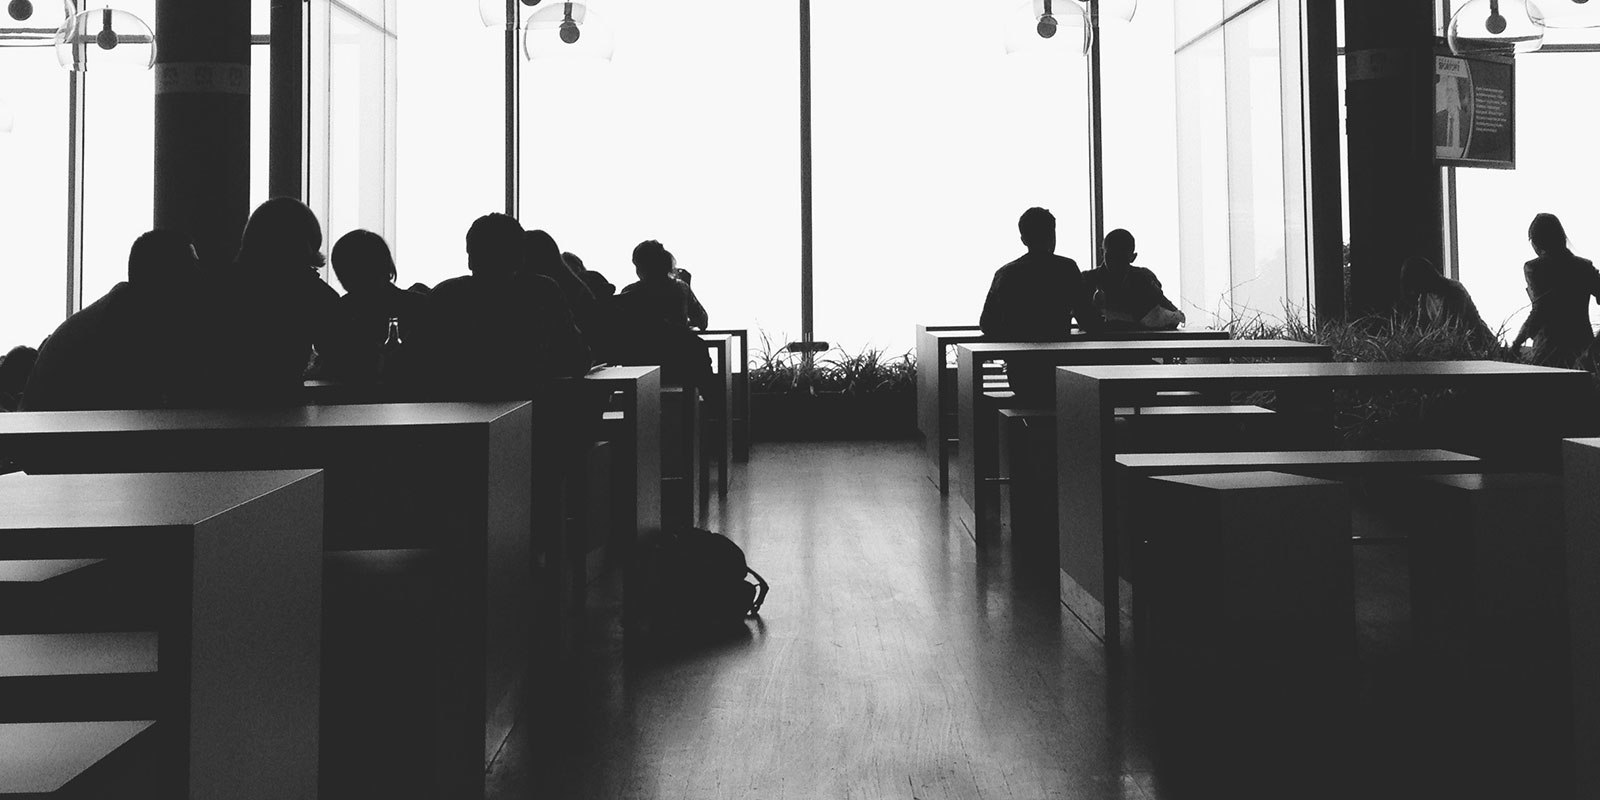
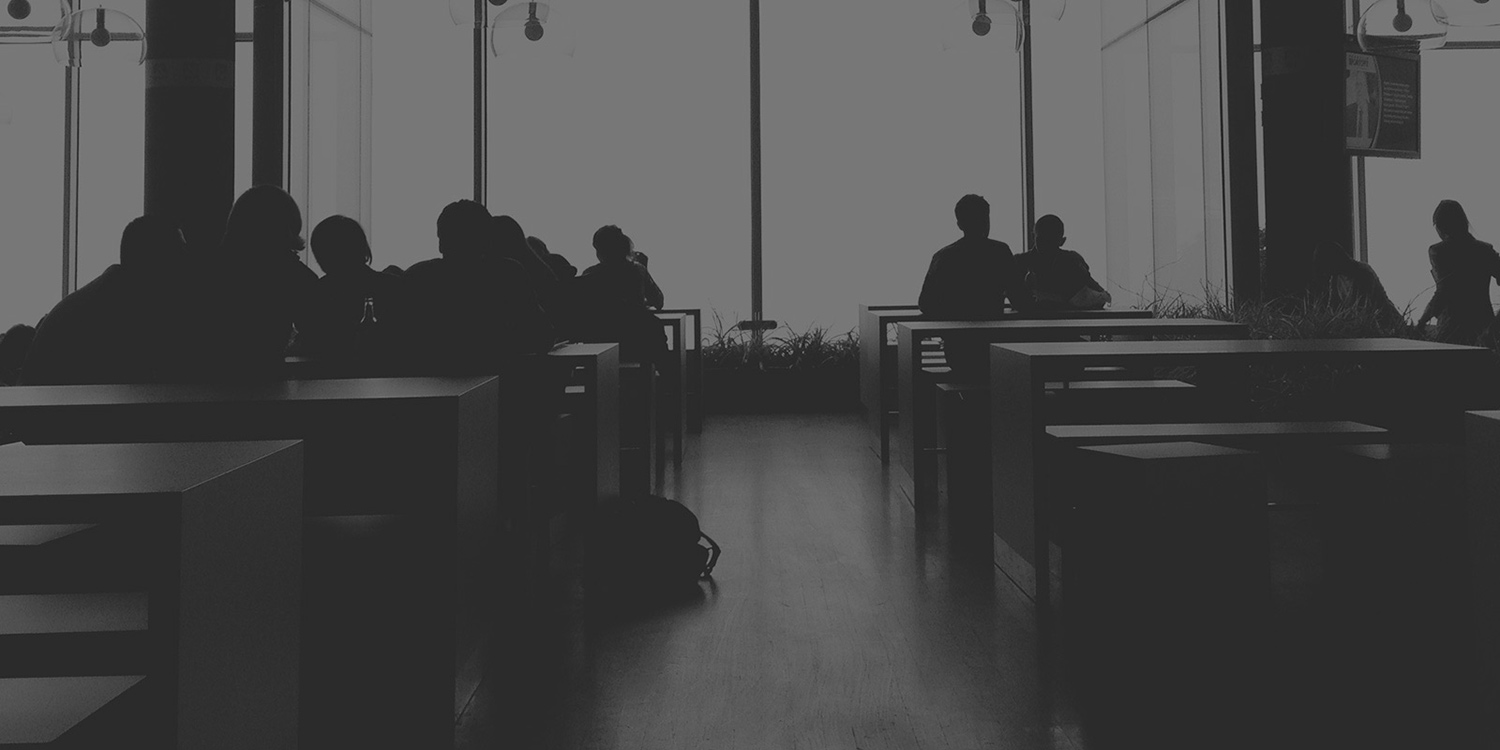
Finished styling the login-page, fix the logout functionality, added food menu page

diff --git a/public/stylesheets/main.css b/public/stylesheets/main.css
@@ -5,11 +5,21 @@
 
 ======================================================================*/
 
+#welcome-to {
+	margin: 50px 0 0;
+	font-size: 20pt;
+	font-family: 'Roboto', sans-serif;
+	text-align: center;
+	color: white;
+	-webkit-animation-name: welcome;
+	-webkit-animation-duration: 3s;
+	-webkit-animation-fill-mode: forwards;
+}
+
 #non-auth-body {
 	margin: 0;
 	padding: 0;
-	background: linear-gradient( rgba(44, 44, 44, 0.75), rgba(44, 44, 44, 0.5)),
-    url('/img/non-auth-bkg.jpg');
+	background: url('/img/non-auth-bkg.jpg');
 	background-size: cover;
 	background-attachment: fixed;
 }
@@ -22,12 +32,12 @@
 	font-weight: 800;
 	text-align: center;
 	color: white;
-	margin: 150px auto 0;
+	margin: 20px auto 0;
 	border-top: solid 1px rgba(255,255,255,0);
 	border-bottom: solid 1px rgba(255,255,255,0);
 	-webkit-animation-name: borderAdd;
 	-webkit-animation-duration: 2s;
-	-webkit-animation-delay: 3s;
+	-webkit-animation-delay: 3.5s;
 	-webkit-animation-fill-mode: forwards;
 }
 
@@ -38,9 +48,10 @@
 #tagline{
 	font-size: 22pt;
 	font-family: 'Roboto', serif;
-	font-weight: 400;
+	font-weight: 300;
 	text-align: center;
 	color: white;
+	margin-bottom: 55px;
 }
 
 
@@ -63,12 +74,16 @@
 	}
 	100%{
 		-webkit-transform: translate3d(0,0,0);
+		opacity: 1;
 	}
 }
 
 #logo-first-s{
+	opacity: 0;
 	-webkit-animation-name: firstS;
+	-webkit-animation-delay: .5s;
 	-webkit-animation-duration: 3s;
+	-webkit-animation-fill-mode: forwards;
 }
 
 
@@ -85,12 +100,16 @@
 	}
 	100%{
 		-webkit-transform: translate3d(0,0,0);
+		opacity: 1;
 	}
 }
 
 #logo-last-s{
+	opacity: 0;
 	-webkit-animation-name: lastS;
+	-webkit-animation-delay: .5s;
 	-webkit-animation-duration: 3s;
+	-webkit-animation-fill-mode: forwards;
 }
 
 
@@ -123,7 +142,20 @@
 	-webkit-animation-fill-mode: forwards;
 }
 
-
+@-webkit-keyframes welcome{
+	0%{
+		opacity: 0;
+	}
+	32%{
+		opacity: 1;
+	}
+	65%{
+		opacity: 1
+	}
+	100%{
+		opacity: 0;
+	}
+}
 
 
 
@@ -132,6 +164,10 @@
 form {
 	width: 40%;
 	margin: 0 auto;
+}
+
+#sign-up-form {
+	margin-bottom: 50px;
 }
 
 input {
@@ -167,7 +203,7 @@ input[type="submit"]:hover {
 .fadeIn{
 	-webkit-animation-name: fadeIn;
 	-webkit-animation-duration: 2s;
-	-webkit-animation-delay: 3s;
+	-webkit-animation-delay: 5s;
 	-webkit-animation-fill-mode: forwards;
 }
 
@@ -199,10 +235,78 @@ input[type="submit"]:hover {
 				INTERFACE - MAIN
 
 ======================================================================*/
-
 #auth-body {
 	background-color: #2c2c2c;
 }
+
+
+/*===========NAV==============*/
+nav {
+	height: 75px;
+	margin-top: 10px;
+	position: fixed;
+	width: 100%;
+}
+
+nav ul {
+	width: 30%;
+	margin: 0 auto;
+	list-style: none;
+	height: 75px;
+	padding: 0;
+}
+
+nav ul li {
+	font-family: 'Roboto', sans-serif;
+	font-size: 12pt;
+	color: white;
+	border: 1px solid white;
+	height: 45px;
+	width: 34%;
+	margin-right: 20%;
+	float: left;
+	text-align: center;
+	line-height: 45px;
+}
+
+nav ul li:hover {
+	background-color: #00D4FF;
+	border: none;
+	transition: .5s;
+}
+
+nav ul li:nth-child(2){
+	margin-right: 0;
+}
+
+nav ul li a{
+	display: block;
+	width: 100%;
+	height: 100%;
+	color: white;
+	text-decoration: none;
+}
+
+#logout {
+	width: 100%;
+	height: 100%;
+	display: block;
+}
+
+#logout button{
+	width: 100%;
+	height: 100%;
+	background: none;
+	border: none;
+	display: block;
+	color: white;
+	font-family: 'Roboto', sans-serif;
+	font-size: 12pt;
+	cursor: pointer;
+}
+
+/*===========SIGN-UP FORM==============*/
+
 
 #main-interface-header {
 	font-size: 48pt;

diff --git a/public/javascripts/main.js b/public/javascripts/main.js
@@ -10,23 +10,23 @@ var app = {};
 //				FOOD MODEL
 //===============================================
 
-app.FoodModel = Backbone.Model.extend();
+app.PartyModel = Backbone.Model.extend();
 
 
-app.FoodCollection = Backbone.Collection.extend({
-	url: '/api/foods',
-	model: app.FoodModel
+app.PartyCollection = Backbone.Collection.extend({
+	url: '/api/parties',
+	model: app.PartyModel
 });
 
 
-template = $('#food-template').html();
+template = $('#party-template').html();
 
-app.FoodView = Backbone.View.extend({
+app.PartyView = Backbone.View.extend({
 	tagName: 'div',
-	className: 'food-item',
+	className: 'party',
 	template: _.template(template),
 	initialize: function(){
-		console.log("New Model!")
+		console.log("New Party!")
 		this.listenTo(this.model, "change", this.render);
 	},
 	render: function(){
@@ -38,10 +38,10 @@ app.FoodView = Backbone.View.extend({
 });
 
 
-app.FoodListView = Backbone.View.extend({
+app.PartyListView = Backbone.View.extend({
 	initialize: function(){
 		console.log("New Collection!");
-		this.listenTo(this.collection, "add", this.render);
+		this.listenTo(this.collection, "sync", this.render);
 	},
 	render: function(){
 		this.$el.empty();
@@ -49,7 +49,7 @@ app.FoodListView = Backbone.View.extend({
 		var models = this.collection.models;
 
 		for(var i = 0; i < models.length; i++){
-			var modelView = new app.FoodView({model: models[i]});
+			var modelView = new app.PartyView({model: models[i]});
 			modelView.render();
 			this.$el.append(modelView.$el);
 		}
@@ -57,25 +57,6 @@ app.FoodListView = Backbone.View.extend({
 	}
 });
 
-
-var foodCollection = new app.FoodCollection();
-var foodListView;
-
-$(document).ready(function(){
-
-	//LOGIN PAGE HIDE SIGN UP MENU
-	$('#sign-up-click').click(function(evt){
-		evt.preventDefault();
-	})
-
-  foodListView = new app.FoodListView({
-    collection: foodCollection,
-    el: $('#food-container')
-  });
-
-  foodCollection.fetch();
-
-});
 
 
 

diff --git a/controllers/session_controller.rb b/controllers/session_controller.rb
@@ -2,6 +2,7 @@ class SessionController < Sinatra::Base
 
 	enable :sessions
 
+	use Rack::MethodOverride 
 	helpers Sinatra::SessionHelper
 
 	get '/pry' do
@@ -18,7 +19,6 @@ class SessionController < Sinatra::Base
 		if user.password = params[:password]
 			session[:current_user] = user.id
 			content_type :json
-			{message: 'Log-In successful'}.to_json
 			redirect '/'
 		else 
 			redirect '/'

diff --git a/controllers/welcome_controller.rb b/controllers/welcome_controller.rb
@@ -19,4 +19,12 @@ class WelcomeController < Sinatra::Base
     end
   end
 
+  get '/menu' do 
+    if current_user
+      erb :menu
+    else
+      erb :nonauthenticated
+    end
+  end
+
 end
